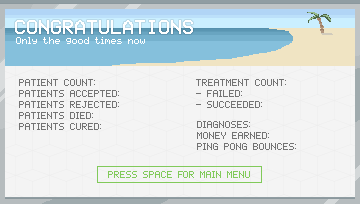
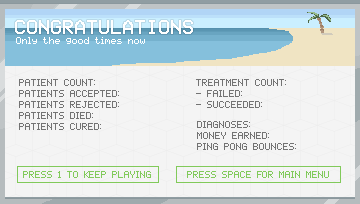
method to keep playing after good ending

Changed region(s): [[0.0306, 0.7941, 0.9472, 0.9118]]

diff --git a/src/stages/GameOverStage.js b/src/stages/GameOverStage.js
@@ -55,3 +55,9 @@ GameOverStage.prototype.onkey = function(event) {
     this.transitionTo("start");
   }
 }
+
+GameOverStage.prototype.onkey = function(event) {
+  if (this.active && event.key == "1" && this.gameOverNr == 2) {
+    this.transitionOut(800);
+  }
+}
